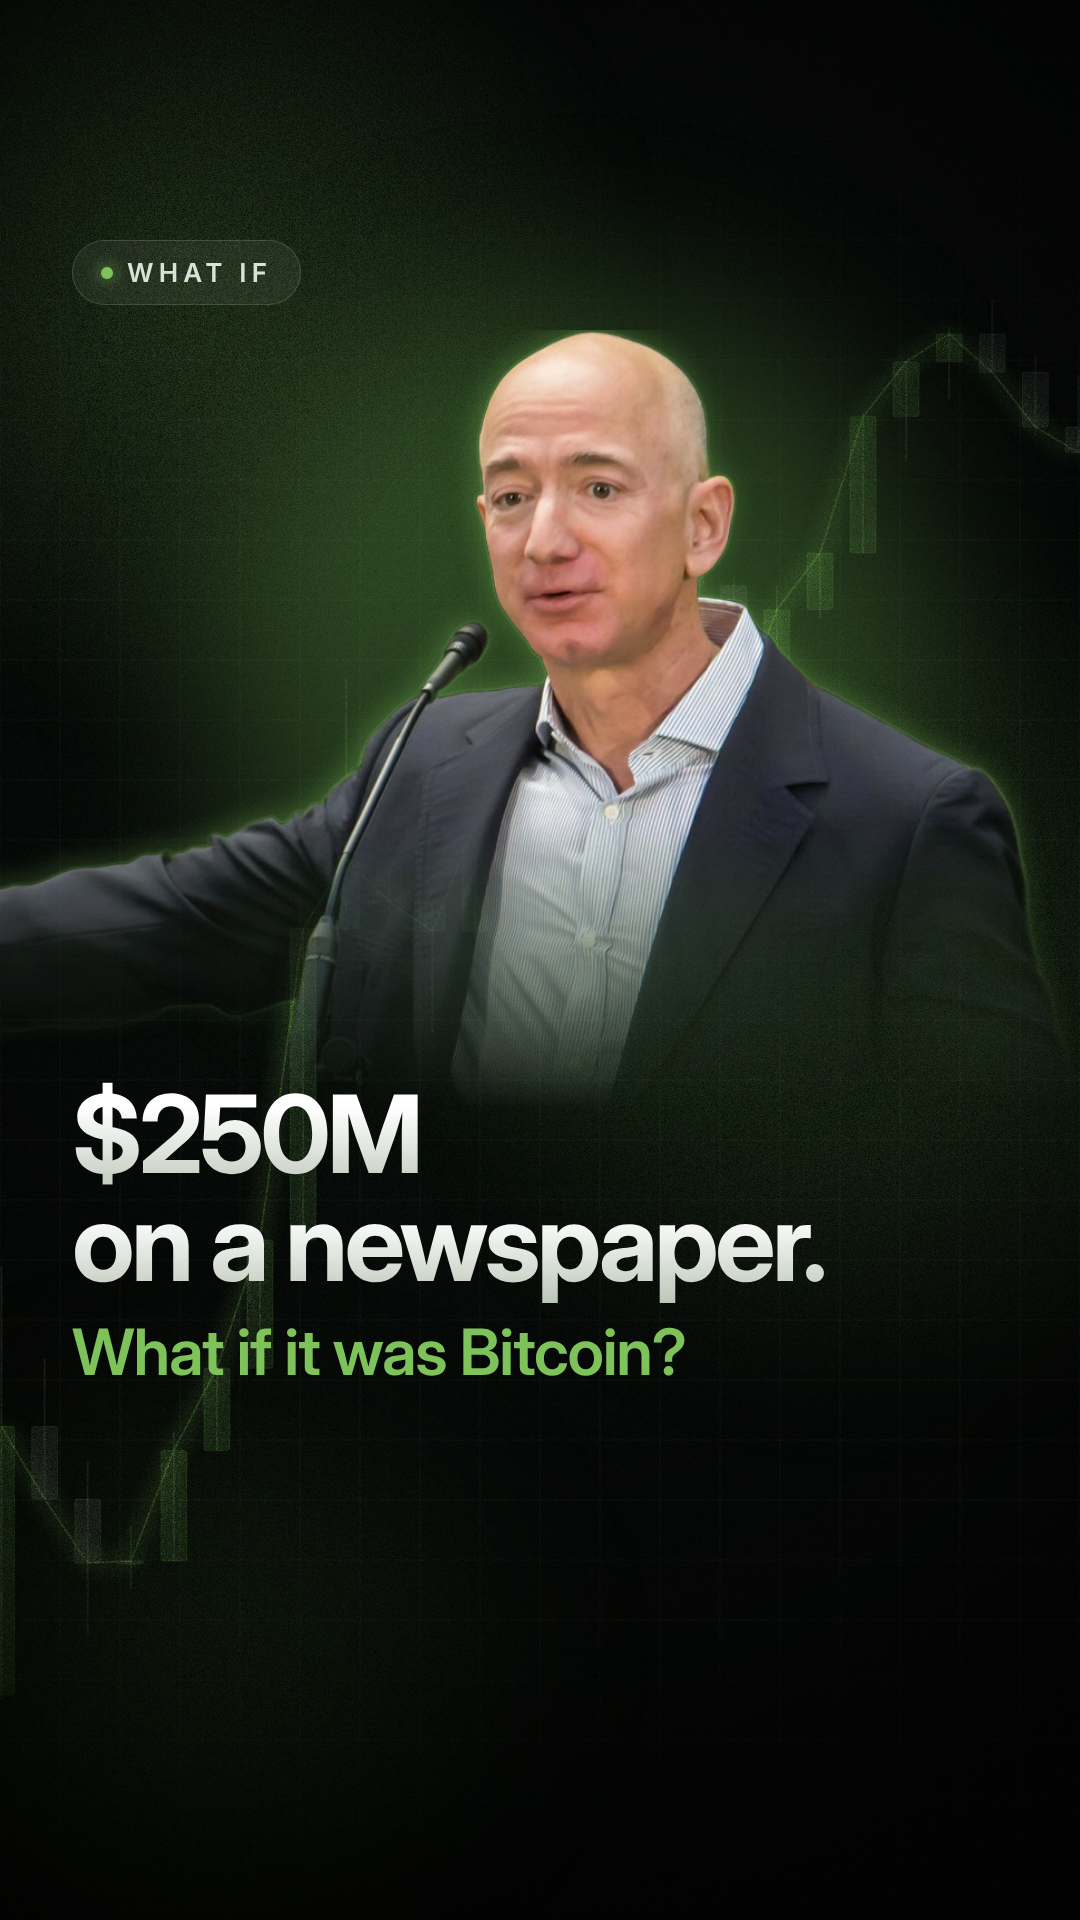
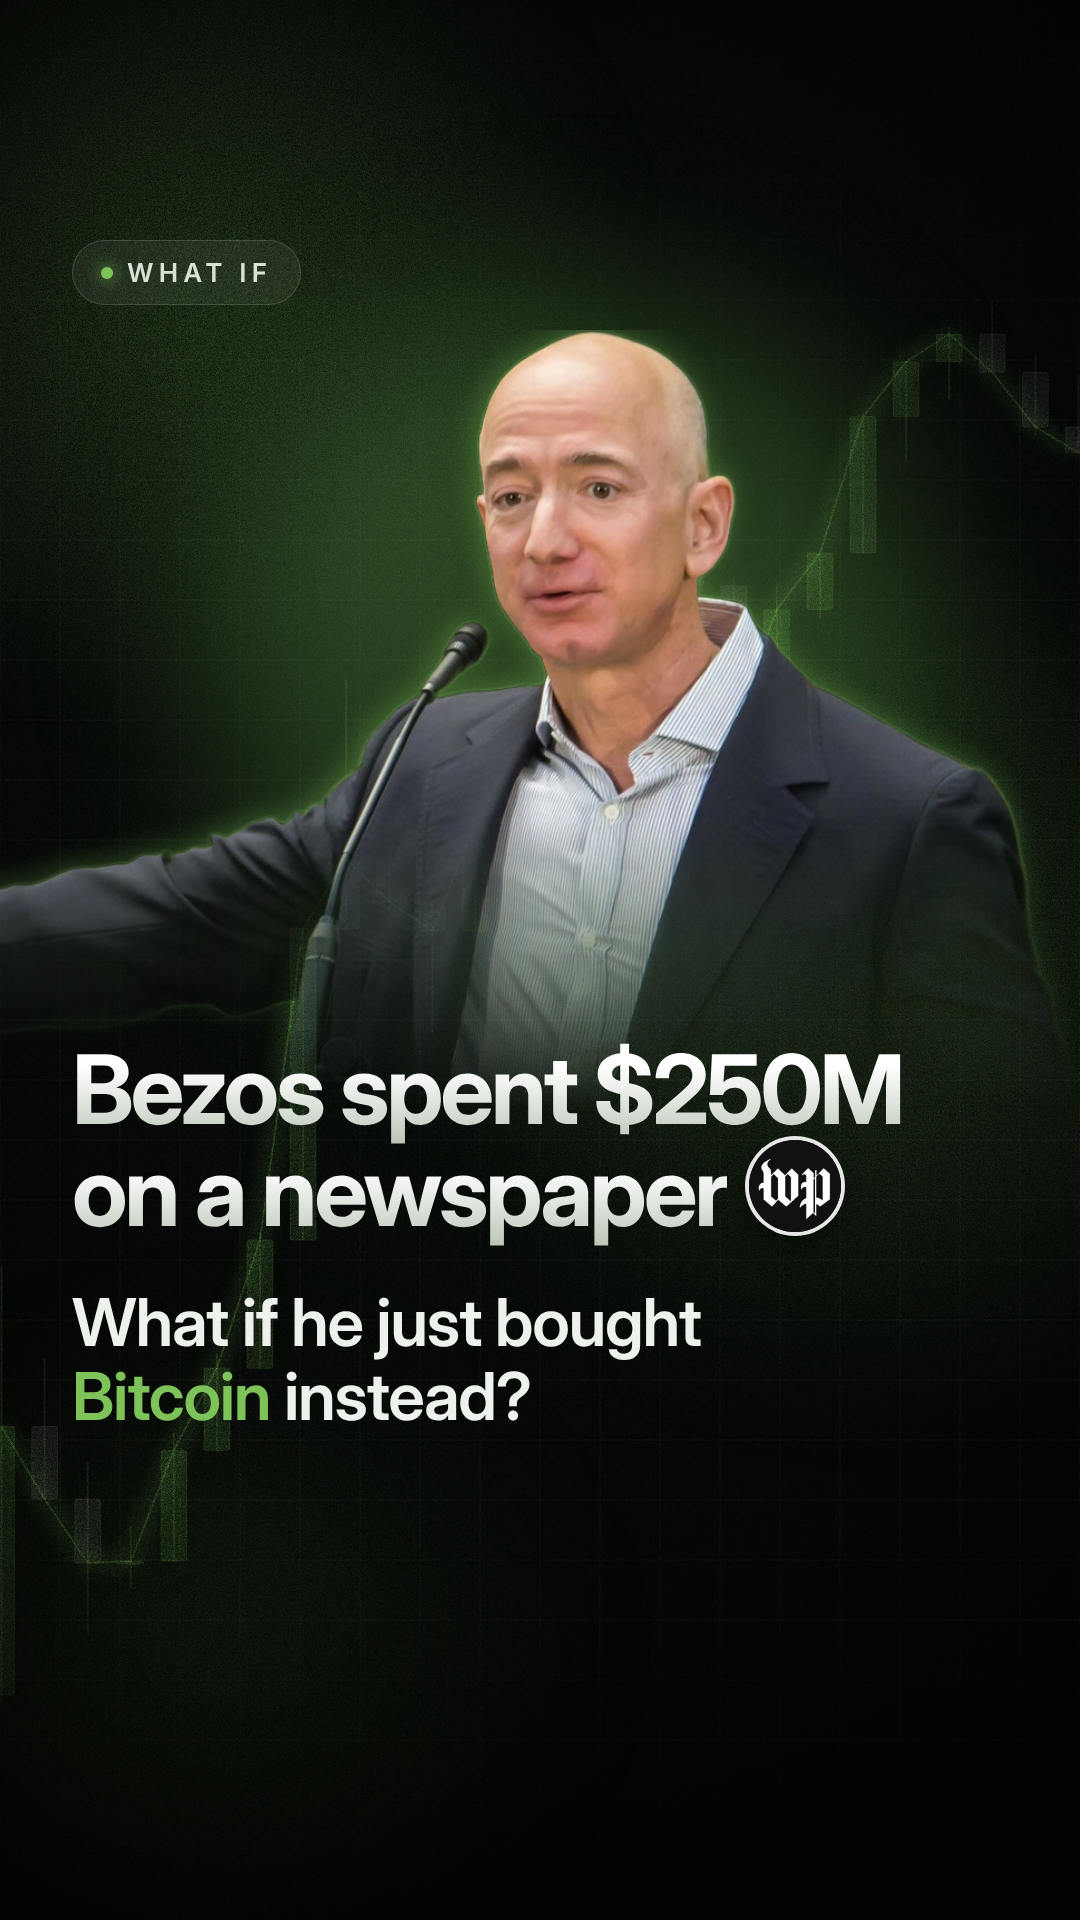
WHAT IF B1/B2: full-sentence copy, WaPo badge on hook frame, options_B_v2 overview
Claude-Session: https://claude.ai/code/session_01WrwvMu8sUQkTnoofcUnh86

Changed region(s): [[0.0611, 0.5312, 0.8556, 0.75]]

diff --git a/ig-news/research/2026-W48/whatif_redesign/B1_2.html b/ig-news/research/2026-W48/whatif_redesign/B1_2.html
@@ -34,15 +34,15 @@ body{background:#060807;color:#fff;font-family:'Inter Display','Inter',sans-seri
 <path d="M1.5,1426.5 L44.6,1499.1 L87.7,1562.9 L130.8,1561.0 L173.8,1450.5 L216.9,1368.1 L260.0,1240.1 L303.1,928.6 L346.2,859.1 L389.2,901.7 L432.3,931.0 L475.4,823.0 L518.5,831.6 L561.5,742.3 L604.6,459.4 L647.7,426.0 L690.8,585.7 L733.8,718.9 L776.9,609.7 L820.0,553.0 L863.1,416.6 L906.2,361.8 L949.2,334.0 L992.3,372.2 L1035.4,426.9 L1078.5,452.6" fill="none" stroke="rgba(126,194,90,.20)" stroke-width="2"/></g></svg><div class="bgl" style="inset:auto;left:110px;top:1430px;height:170px;width:760px;background:radial-gradient(50% 50% at 50% 0%,rgba(126,194,90,.22),rgba(126,194,90,0));filter:blur(18px)"></div><div class="bgl" style="inset:auto;left:90px;top:1424px;width:800px;height:2px;background:linear-gradient(90deg,transparent,rgba(255,255,255,.18),transparent)"></div><div class="grain"></div><div class="vig"></div>
 <div class="noise"></div>
 <div class="glow" style="left:140px;top:520px;width:800px;height:700px;background:rgba(126,194,90,.22)"></div>
-<div class="pill" style="left:72px;top:240px"><i></i>Same $250M, in Bitcoin</div>
+<div class="pill" style="left:72px;top:240px"><i></i>What if</div>
 <div class="glass" style="left:60px;top:360px;width:860px;height:1060px"></div>
 <div class="abs" style="left:110px;top:412px;display:flex;align-items:center;gap:20px;font:600 34px 'Inter';color:#e8ede6">
-  <img src="../../../assets/logos/BTC.svg" style="width:64px">Bitcoin<span class="mute" style="font-weight:500">&nbsp;since Oct 2013</span></div>
-<div class="abs mute" style="left:110px;top:560px;font:600 28px 'Inter';letter-spacing:.18em">WORTH TODAY</div>
+  <img src="../../../assets/logos/BTC.svg" style="width:64px">Bitcoin<span class="mute" style="font-weight:500">&nbsp;bought in Oct 2013</span></div>
+<div class="abs" style="left:110px;top:526px;font:600 40px 'Inter';letter-spacing:-.01em;color:#d9e2d6">The same $250M in Bitcoin is worth</div>
 <div class="abs grad" style="left:102px;top:600px;font:800 250px/1 'Inter Display';letter-spacing:-.05em">$115B</div>
 <div class="abs" style="left:110px;top:880px;display:flex;gap:18px;align-items:center">
   <span style="padding:14px 26px;border-radius:999px;background:#7EC25A;color:#06140a;font:800 40px 'Inter Display'">&#9650; 461x</span>
-  <span class="mute" style="font:500 32px 'Inter'">vs $250M paid</span></div>
+  <span class="mute" style="font:500 32px 'Inter'">more than he paid</span></div>
 <svg class="abs" style="left:110px;top:1000px;overflow:visible" width="760" height="380" viewBox="0 0 760 380">
   <defs><linearGradient id="a" x1="0" y1="0" x2="0" y2="1"><stop offset="0" stop-color="#7EC25A" stop-opacity=".45"/><stop offset="1" stop-color="#7EC25A" stop-opacity="0"/></linearGradient>
   <filter id="gl" x="-10%" y="-30%" width="120%" height="160%"><feGaussianBlur stdDeviation="7"/></filter></defs>

diff --git a/ig-news/research/2026-W48/whatif_redesign/B2_2.html b/ig-news/research/2026-W48/whatif_redesign/B2_2.html
@@ -26,15 +26,15 @@ body{background:#060807;color:#fff;font-family:'Inter Display','Inter',sans-seri
 </style></head><body><div class="f"><div class="bgl" style="background:url(bgphoto_2.jpg) center/cover;opacity:0.55"></div><div class="bgl" style="background:linear-gradient(180deg,rgba(3,5,4,.45) 0%,rgba(3,5,4,.35) 50%,rgba(3,5,4,.85) 85%)"></div><div class="bgl" style="inset:auto;left:110px;top:1430px;height:170px;width:760px;background:radial-gradient(50% 50% at 50% 0%,rgba(126,194,90,.22),rgba(126,194,90,0));filter:blur(18px)"></div><div class="bgl" style="inset:auto;left:90px;top:1424px;width:800px;height:2px;background:linear-gradient(90deg,transparent,rgba(255,255,255,.18),transparent)"></div><div class="grain"></div><div class="vig"></div>
 <div class="noise"></div>
 <div class="glow" style="left:140px;top:520px;width:800px;height:700px;background:rgba(126,194,90,.22)"></div>
-<div class="pill" style="left:72px;top:240px"><i></i>Same $250M, in Bitcoin</div>
+<div class="pill" style="left:72px;top:240px"><i></i>What if</div>
 <div class="glass" style="left:60px;top:360px;width:860px;height:1060px"></div>
 <div class="abs" style="left:110px;top:412px;display:flex;align-items:center;gap:20px;font:600 34px 'Inter';color:#e8ede6">
-  <img src="../../../assets/logos/BTC.svg" style="width:64px">Bitcoin<span class="mute" style="font-weight:500">&nbsp;since Oct 2013</span></div>
-<div class="abs mute" style="left:110px;top:560px;font:600 28px 'Inter';letter-spacing:.18em">WORTH TODAY</div>
+  <img src="../../../assets/logos/BTC.svg" style="width:64px">Bitcoin<span class="mute" style="font-weight:500">&nbsp;bought in Oct 2013</span></div>
+<div class="abs" style="left:110px;top:526px;font:600 40px 'Inter';letter-spacing:-.01em;color:#d9e2d6">The same $250M in Bitcoin is worth</div>
 <div class="abs grad" style="left:102px;top:600px;font:800 250px/1 'Inter Display';letter-spacing:-.05em">$115B</div>
 <div class="abs" style="left:110px;top:880px;display:flex;gap:18px;align-items:center">
   <span style="padding:14px 26px;border-radius:999px;background:#7EC25A;color:#06140a;font:800 40px 'Inter Display'">&#9650; 461x</span>
-  <span class="mute" style="font:500 32px 'Inter'">vs $250M paid</span></div>
+  <span class="mute" style="font:500 32px 'Inter'">more than he paid</span></div>
 <svg class="abs" style="left:110px;top:1000px;overflow:visible" width="760" height="380" viewBox="0 0 760 380">
   <defs><linearGradient id="a" x1="0" y1="0" x2="0" y2="1"><stop offset="0" stop-color="#7EC25A" stop-opacity=".45"/><stop offset="1" stop-color="#7EC25A" stop-opacity="0"/></linearGradient>
   <filter id="gl" x="-10%" y="-30%" width="120%" height="160%"><feGaussianBlur stdDeviation="7"/></filter></defs>

diff --git a/ig-news/research/2026-W48/whatif_redesign/B1_1.html b/ig-news/research/2026-W48/whatif_redesign/B1_1.html
@@ -36,7 +36,8 @@ body{background:#060807;color:#fff;font-family:'Inter Display','Inter',sans-seri
 <div class="pill" style="left:72px;top:240px"><i></i>What if</div>
 <img class="abs" src="bezos_cut.png" style="left:-30px;top:330px;width:1110px;
   -webkit-mask-image:linear-gradient(180deg,#000 62%,transparent 98%);filter:contrast(1.05) saturate(.9) drop-shadow(0 0 1.5px rgba(200,245,170,.55)) drop-shadow(-4px -3px 14px rgba(126,194,90,.38))">
-<div class="abs" style="left:72px;top:1080px;font:700 108px/1 'Inter Display';letter-spacing:-.035em">
-  <span class="grad">$250M</span><br><span class="grad">on a newspaper.</span></div>
-<div class="abs" style="left:72px;top:1320px;font:600 64px/1 'Inter Display';letter-spacing:-.02em;color:#7EC25A">What if it was Bitcoin?</div>
+<div class="abs" style="left:72px;top:1040px;width:860px;font:700 96px/1.04 'Inter Display';letter-spacing:-.035em">
+  <span class="grad">Bezos spent $250M</span><br><span class="grad">on a newspaper</span><img src="wapo_wp.png" alt="The Washington Post" style="display:inline-block;width:92px;height:92px;border-radius:50%;vertical-align:-6px;margin-left:22px;box-shadow:0 0 0 4px rgba(255,255,255,.9),0 10px 30px rgba(0,0,0,.55)"></div>
+<div class="abs" style="left:72px;top:1286px;width:860px;font:600 66px/1.12 'Inter Display';letter-spacing:-.02em;color:#eef2ec">
+  What if he just bought<br><span style="color:#7EC25A">Bitcoin</span> instead?</div>
 </div></body></html>

diff --git a/ig-news/research/2026-W48/whatif_redesign/B2_1.html b/ig-news/research/2026-W48/whatif_redesign/B2_1.html
@@ -28,7 +28,8 @@ body{background:#060807;color:#fff;font-family:'Inter Display','Inter',sans-seri
 <div class="pill" style="left:72px;top:240px"><i></i>What if</div>
 <img class="abs" src="bezos_cut.png" style="left:-30px;top:330px;width:1110px;
   -webkit-mask-image:linear-gradient(180deg,#000 62%,transparent 98%);filter:contrast(1.05) saturate(.9) drop-shadow(0 0 1.5px rgba(200,245,170,.55)) drop-shadow(-4px -3px 14px rgba(126,194,90,.38))">
-<div class="abs" style="left:72px;top:1080px;font:700 108px/1 'Inter Display';letter-spacing:-.035em">
-  <span class="grad">$250M</span><br><span class="grad">on a newspaper.</span></div>
-<div class="abs" style="left:72px;top:1320px;font:600 64px/1 'Inter Display';letter-spacing:-.02em;color:#7EC25A">What if it was Bitcoin?</div>
+<div class="abs" style="left:72px;top:1040px;width:860px;font:700 96px/1.04 'Inter Display';letter-spacing:-.035em">
+  <span class="grad">Bezos spent $250M</span><br><span class="grad">on a newspaper</span><img src="wapo_wp.png" alt="The Washington Post" style="display:inline-block;width:92px;height:92px;border-radius:50%;vertical-align:-6px;margin-left:22px;box-shadow:0 0 0 4px rgba(255,255,255,.9),0 10px 30px rgba(0,0,0,.55)"></div>
+<div class="abs" style="left:72px;top:1286px;width:860px;font:600 66px/1.12 'Inter Display';letter-spacing:-.02em;color:#eef2ec">
+  What if he just bought<br><span style="color:#7EC25A">Bitcoin</span> instead?</div>
 </div></body></html>

diff --git a/ig-news/research/2026-W48/whatif_redesign/build_B.py b/ig-news/research/2026-W48/whatif_redesign/build_B.py
@@ -1,7 +1,7 @@
 """WHAT IF option B, richer backgrounds: B1 "Market texture", B2 "Photo depth".
 
 python3 ig-news/research/2026-W48/whatif_redesign/build_B.py
--> B1_{1,2,3}.html/.png, B2_{1,2,3}.html/.png (1080x1920) + options_B.jpg (rows B, B1, B2).
+-> B1_{1,2,3}.html/.png, B2_{1,2,3}.html/.png (1080x1920) + options_B_v2.jpg (rows B1, B2).
 Content and layout are option B from build.py untouched; only background layers are added
 under the content (and a soft rim light on the Bezos cut-out).
 Photo backgrounds (B2) are prepared once from Unsplash originals by prep_photos(); see NOTES_B.md.
@@ -156,6 +156,47 @@ def b2(n, html):
     return inject(html, back)
 
 
+# ------------------------------------------------------------------ v2 copy: full sentences
+# Owner feedback on v1: "don't cut phrases". Frame 1 headline is two full sentences, with a small
+# Washington Post badge (the paper's real "wp" mark, wapo_wp.png, source in NOTES_B.md) after "newspaper".
+# Frame 2 swaps its label fragments for a sentence; frame 3 (CTA) is unchanged.
+WAPO = ('<img src="wapo_wp.png" alt="The Washington Post" style="display:inline-block;width:92px;height:92px;'
+        'border-radius:50%;vertical-align:-6px;margin-left:22px;box-shadow:0 0 0 4px rgba(255,255,255,.9),'
+        '0 10px 30px rgba(0,0,0,.55)">')
+
+
+def f1():
+    S = B.S
+    return B.page(B.B_CSS, f'''
+<div class="glow" style="left:220px;top:300px;width:700px;height:700px;background:rgba(126,194,90,.28)"></div>
+<div class="pill" style="left:72px;top:240px"><i></i>What if</div>
+<img class="abs" src="bezos_cut.png" style="left:-30px;top:330px;width:1110px;
+  -webkit-mask-image:linear-gradient(180deg,#000 62%,transparent 98%);filter:contrast(1.05) saturate(.9)">
+<div class="abs" style="left:72px;top:1040px;width:860px;font:700 96px/1.04 'Inter Display';letter-spacing:-.035em">
+  <span class="grad">Bezos spent {S["paid"]}</span><br><span class="grad">on a {S["thing"]}</span>{WAPO}</div>
+<div class="abs" style="left:72px;top:1286px;width:860px;font:600 66px/1.12 'Inter Display';letter-spacing:-.02em;color:#eef2ec">
+  What if he just bought<br><span style="color:#7EC25A">Bitcoin</span> instead?</div>
+''')
+
+
+F2_SWAPS = (
+    ('<i></i>Same {paid}, in Bitcoin</div>', '<i></i>What if</div>'),
+    ('&nbsp;since {month}</span>', '&nbsp;bought in {month}</span>'),
+    ('''<div class="abs mute" style="left:110px;top:560px;font:600 28px 'Inter';letter-spacing:.18em">WORTH TODAY</div>''',
+     '''<div class="abs" style="left:110px;top:526px;font:600 40px 'Inter';letter-spacing:-.01em;color:#d9e2d6">The same {paid} in Bitcoin is worth</div>'''),
+    ('>vs {paid} paid</span>', '>more than he paid</span>'),
+)
+
+
+def f2():
+    h = B.b2()
+    for a, b in F2_SWAPS:
+        a, b = a.format(**B.S), b.format(**B.S)
+        assert a in h, a
+        h = h.replace(a, b, 1)
+    return h
+
+
 # ------------------------------------------------------------------ render
 def main():
     import sys
@@ -164,7 +205,7 @@ def main():
     if len(sys.argv) > 1:
         prep_photos(sys.argv[1])
     make_grain()
-    base = {1: rim(B.b1()), 2: B.b2(), 3: B.b3()}
+    base = {1: rim(f1()), 2: f2(), 3: B.b3()}
     jobs = {}
     for n, h in base.items():
         jobs[f'B1_{n}'] = b1(n, h)
@@ -181,17 +222,17 @@ def main():
             pg.screenshot(path=str(HERE / f'{name}.png'))
         br.close()
     fw, fh, lab, gap = 360, 640, 90, 16
-    W, H = lab + 3 * fw + 4 * gap, 3 * fh + 4 * gap
+    W, H = lab + 3 * fw + 4 * gap, 2 * fh + 3 * gap
     ov = Image.new('RGB', (W, H), (232, 232, 228))
     d = ImageDraw.Draw(ov)
     font = ImageFont.truetype('/usr/share/fonts/opentype/inter/Inter-Bold.otf', 40)
-    for r, k in enumerate(('B', 'B1', 'B2')):
+    for r, k in enumerate(('B1', 'B2')):
         y = gap + r * (fh + gap)
         d.text((lab // 2 + 4, y + fh // 2), k, fill=(20, 20, 20), font=font, anchor='mm')
         for c in range(3):
             im = Image.open(HERE / f'{k}_{c + 1}.png').convert('RGB').resize((fw, fh), Image.LANCZOS)
             ov.paste(im, (lab + gap + c * (fw + gap), y))
-    ov.save(HERE / 'options_B.jpg', quality=90)
+    ov.save(HERE / 'options_B_v2.jpg', quality=90)
 
 
 if __name__ == '__main__':

diff --git a/ig-news/research/2026-W48/whatif_redesign/NOTES_B.md b/ig-news/research/2026-W48/whatif_redesign/NOTES_B.md
@@ -16,3 +16,20 @@ Grain sits under the content so faces and type stay clean.
 - Frame 1, printing press: Aleksandr Galichkin, https://unsplash.com/photos/QRykXu51r_0
 - Frame 2, trading screens: Jakub Zerdzicki, https://unsplash.com/photos/vKNRKjSNbTo
 - Frame 3, green bokeh: Amit Sen, https://unsplash.com/photos/wktVEK7k-pI
+
+## v2 copy: full sentences (owner feedback "don't cut phrases")
+Applied to both B1 and B2; backgrounds, cut-out, safe zones and the CTA frame (3) are unchanged.
+Overview: `options_B_v2.jpg` (rows B1, B2).
+- Frame 1: "Bezos spent $250M / on a newspaper" + small round Washington Post badge, then
+  "What if he just bought / Bitcoin instead?" (Bitcoin in brand green). Headline 96 px, question 66 px, starts y=1040.
+- Frame 2: pill "What if"; card reads "Bitcoin bought in Oct 2013", "The same $250M in Bitcoin is worth" + $115B,
+  "461x more than he paid".
+
+## Washington Post logo
+`wapo_wp.png` is the paper's own "wp" app/site icon (256x256 PNG), unmodified, shown clipped to a circle.
+Source: the icon washingtonpost.com publishes, fetched via Google's favicon service
+(https://t1.gstatic.com/faviconV2?client=SOCIAL&type=FAVICON&url=https://www.washingtonpost.com&size=256),
+cross-checked against https://www.washingtonpost.com/favicon.ico (same mark, 48 px). washingtonpost.com itself
+blocks scripted page fetches, and the Commons API was rate-limited (429); the Commons files for the paper
+(File:The_Washington_Post_logo.svg) are the long wordmark, too wide for a small badge.
+Trademark of The Washington Post, used here only to identify the paper in an editorial reference.
